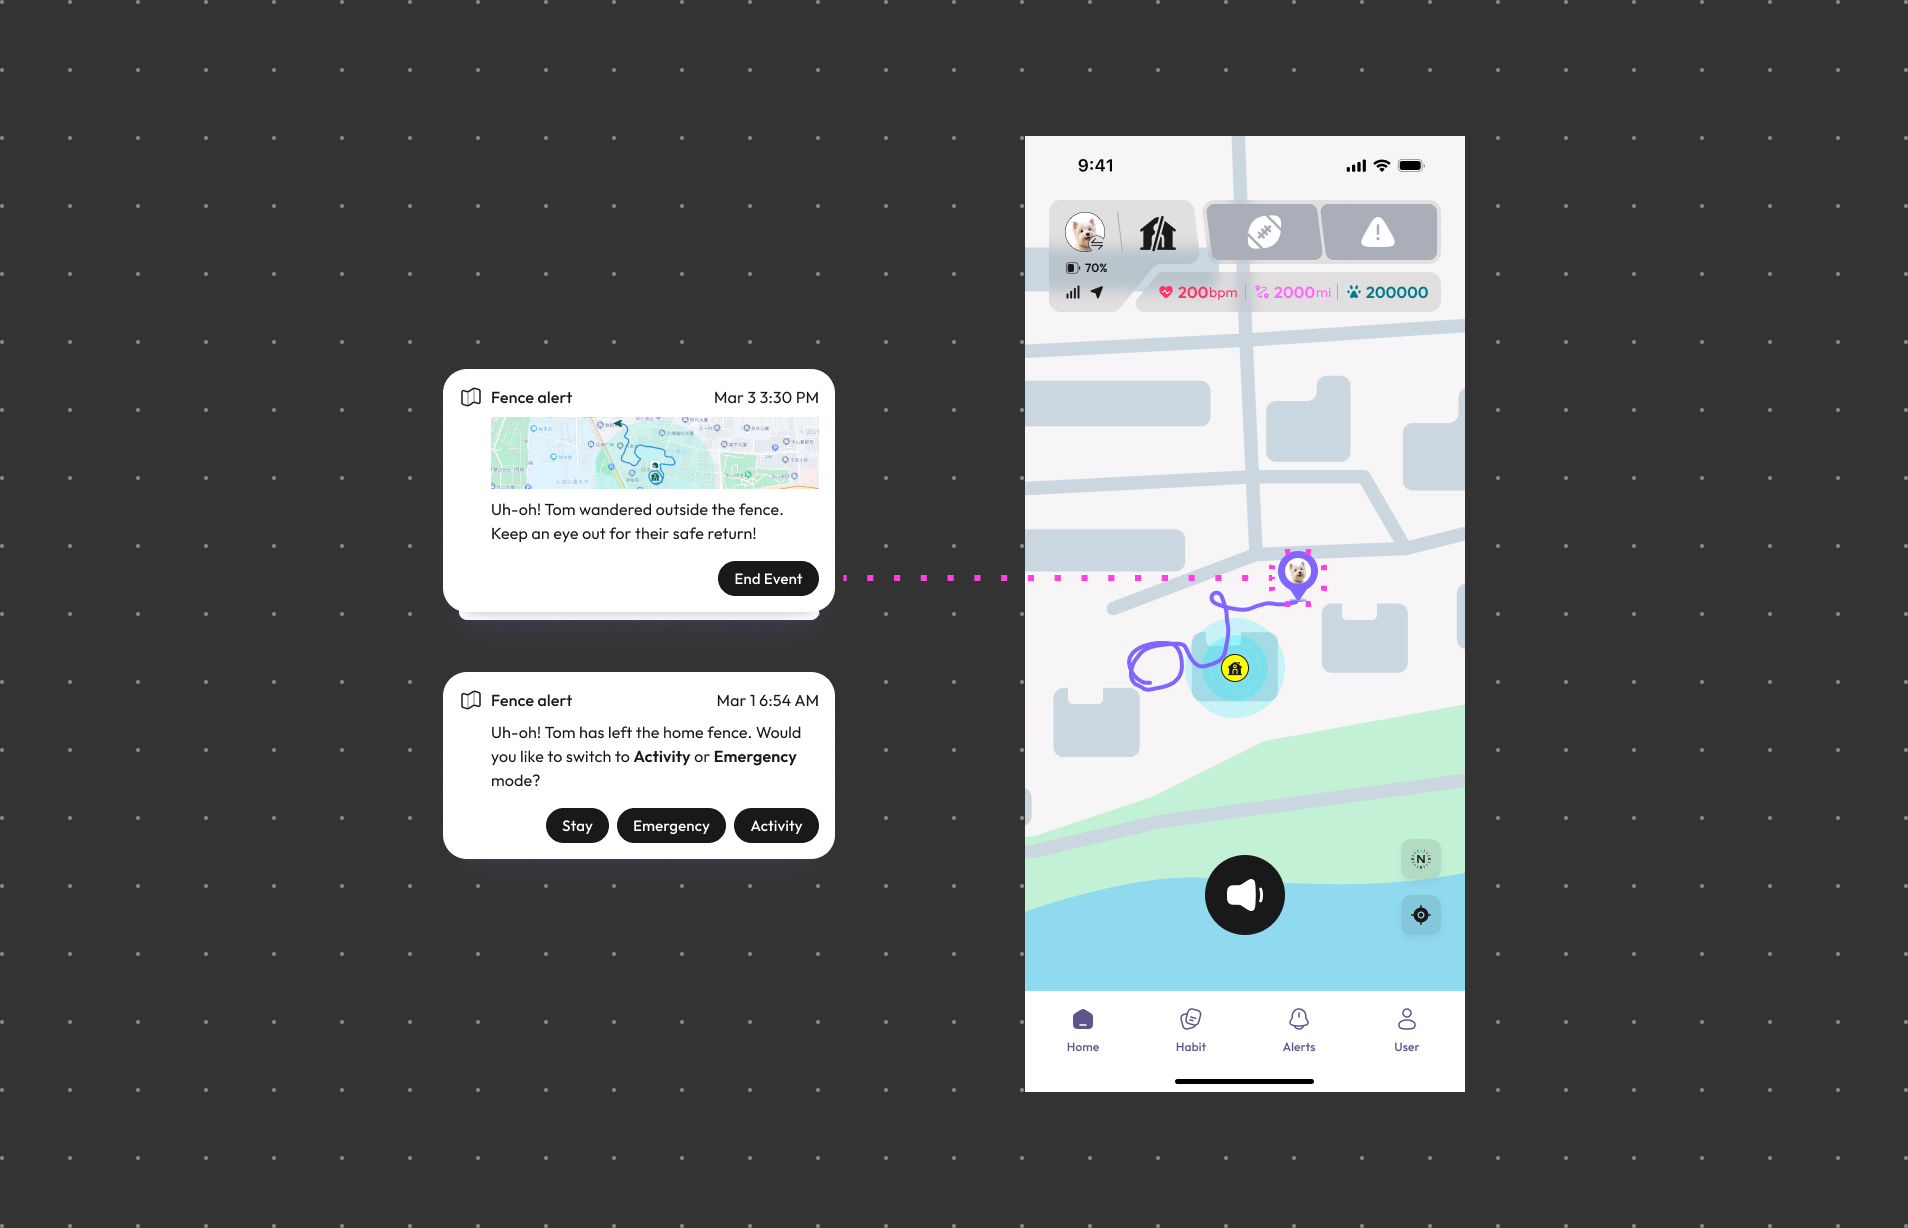
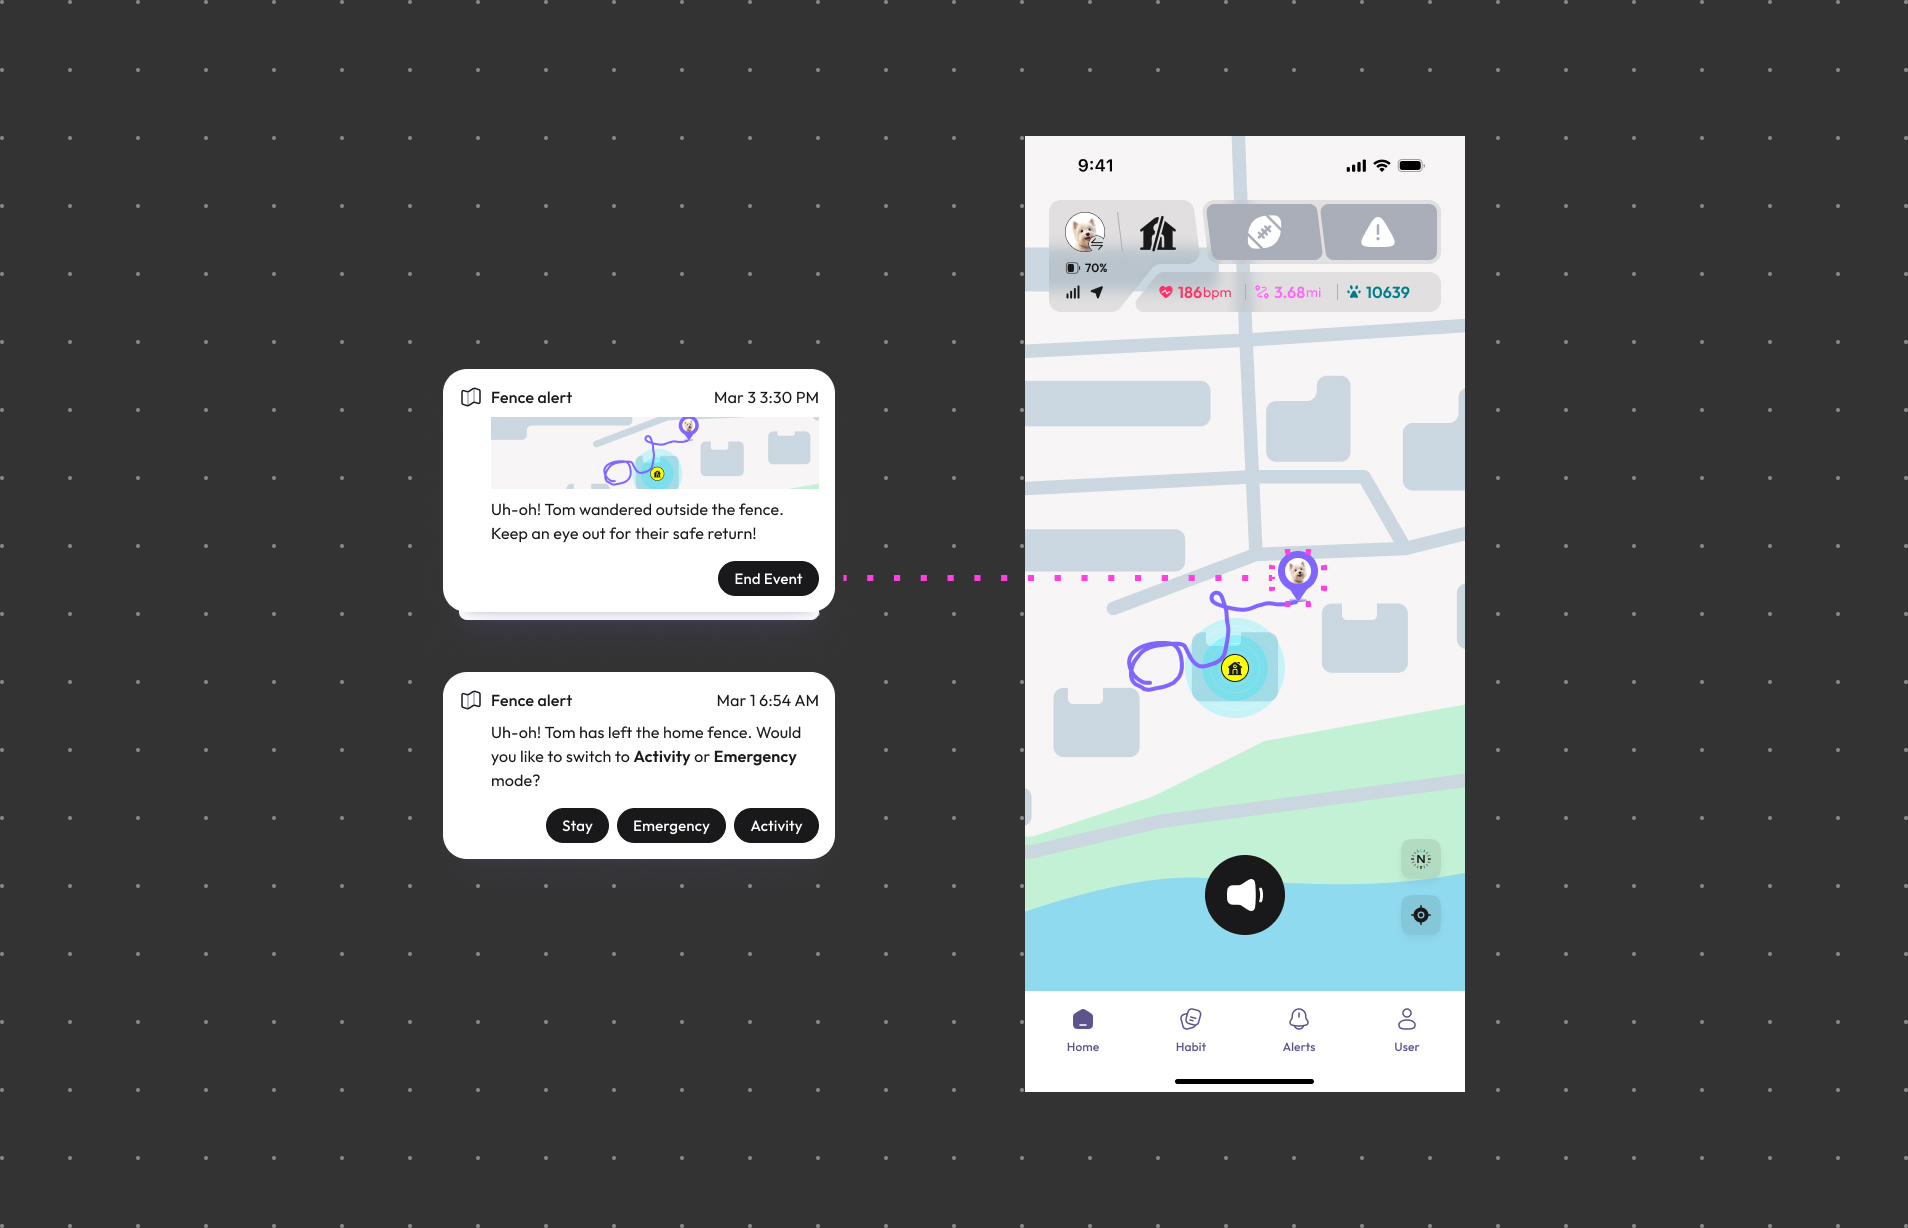
img&4G upgrade

Changed region(s): [[0.2474, 0.3404, 0.4329, 0.4023], [0.7112, 0.2166, 0.7421, 0.2476], [0.6184, 0.2166, 0.6494, 0.2476]]

diff --git a/docs/petority/4_devices/4_upgrade-firmware.md b/docs/petority/4_devices/4_upgrade-firmware.md
@@ -52,10 +52,10 @@ Updated software may introduce **new features**, **improvements**, and **bug fix
 
 If an update is available, follow the prompts to download and install it.
 
-+ Please ensure that PHAST 1’s 4G signal remains stable.
-+ Ensure that your device has **sufficient** battery power.
-
-   During the device upgrade, low battery levels can lead to upgrade failures or device damage. It is recommended to connect your device to a power adapter and keep it charging.
++ Make sure your device is connected to a charger before starting the update.
++ Do not interrupt charging during the update.
++ Do not power off the device during the update.
++ Please stay on this page during the update to avoid failure.
 
 **Step 2:** Restart and Verify
 

diff --git a/docs/petority/3_features/1_live-tracking.md b/docs/petority/3_features/1_live-tracking.md
@@ -23,7 +23,7 @@ In the WAGGURACY app, on the **Home** screen, as long as your pet is wearing PHA
 
 ### 1. Monitor Movement - Real-time Tracking:
 
-![realtime tracking](/img/map/activities.jpg)
+![realtime tracking](/img/map/activities1.jpg)
 
 The map displays your pet's **movement** in **real-time**, enabling you to track their paths and activities.
 

diff --git a/docs/petority/3_features/2_health-monitoring.md b/docs/petority/3_features/2_health-monitoring.md
@@ -34,7 +34,7 @@ By following these simple steps, you'll be able to access and review your pet's 
 
 With WAGGURACY's Habit Data and Location History feature, you gain a comprehensive overview of your pet's daily activities. 
 
-![Path](/img/health/Activities1.jpg)
+![Path](/img/health/activities.jpg)
 
 This feature allows you to understand their movement patterns, providing insights into their exercise routines and overall lifestyle.
 